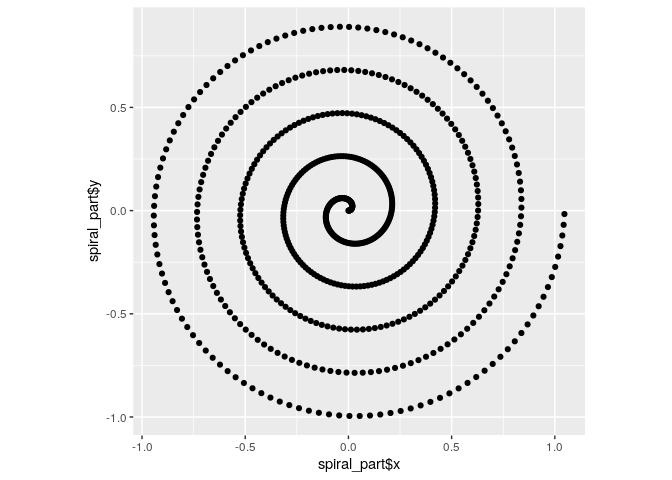
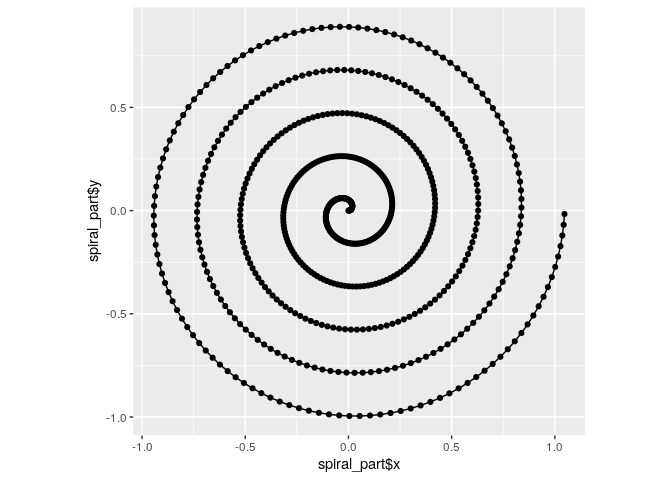
the Github readme also includes examples

diff --git a/README.md b/README.md
@@ -3,40 +3,19 @@ vrmvrm
 
 # About
 
-The R package `vrmvrm` (pronouced “vroom-vroom”) is a tidyverse-style
+The R package `vrmvrm` (pronouced *vroom-vroom*) is a tidyverse-style
 toolset for working with spatial data. Unlike most packages working with
 spatial data in R, we have focused on small-scale data rather than
 geographic data. This is because the package creator has a background in
-behavioral data collected virtual and augmented reality
-    studies.
+behavioral data collected virtual and augmented reality studies.
 
 # Quick View
 
 ``` r
 library(tidyverse)
-```
-
-    ## ── Attaching packages ─────────────────────────────────────────────────────────────────── tidyverse 1.3.0 ──
-
-    ## ✓ ggplot2 3.3.0           ✓ purrr   0.3.4      
-    ## ✓ tibble  3.0.1           ✓ dplyr   0.8.99.9002
-    ## ✓ tidyr   1.0.2           ✓ stringr 1.4.0      
-    ## ✓ readr   1.3.1           ✓ forcats 0.5.0
-
-    ## ── Conflicts ────────────────────────────────────────────────────────────────────── tidyverse_conflicts() ──
-    ## x dplyr::filter() masks stats::filter()
-    ## x dplyr::lag()    masks stats::lag()
-
-``` r
+library(gganimate)
 library(vrmvrm)
 ```
-
-    ## 
-    ## Attaching package: 'vrmvrm'
-
-    ## The following object is masked from 'package:purrr':
-    ## 
-    ##     cross
 
 ``` r
 spiral <- tibble(i = seq(0, 10*pi, 0.05)) %>%
@@ -45,7 +24,7 @@ spiral <- tibble(i = seq(0, 10*pi, 0.05)) %>%
     # and thanks to dplyr, can refer to other columns in the dataframe
     circular_part = vector3(x=cos(i), y=sin(i), z=0),
     forward_part = vector3(x=0, y=0, z=i/15),
-    # vector3s can be added together and multiplied by numerics
+    # vector3s can be added together and multiplied by numerics 
     spiral_part = circular_part * i / 30 + forward_part
   )
 
@@ -72,11 +51,25 @@ spiral %>%
   # field access uses the $ operator
   ggplot(aes(x=spiral_part$x, y=spiral_part$y)) +
   geom_point() +
-  #geom_path() +
+  geom_path() +
   coord_equal()
 ```
 
 ![](README_files/figure-gfm/unnamed-chunk-2-1.png)<!-- -->
+
+``` r
+spiral %>%
+  mutate(
+    # rotations can be specified using quaternions, axis / angle, or even from / to vectors
+    spiral_rotated = rotate(spiral_part, axis=c(0, 1, 0), angle=pi/4)
+  ) %>% 
+  ggplot(aes(x=spiral_rotated$x, y=spiral_rotated$y)) +
+  geom_point() +
+  geom_path() +
+  coord_equal()
+```
+
+![](README_files/figure-gfm/unnamed-chunk-3-1.png)<!-- -->
 
 # Contributions
 
